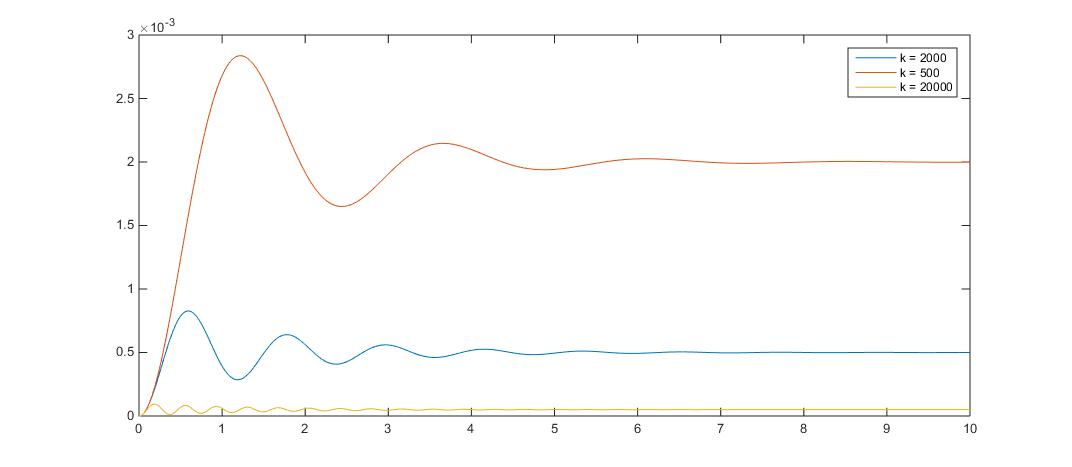
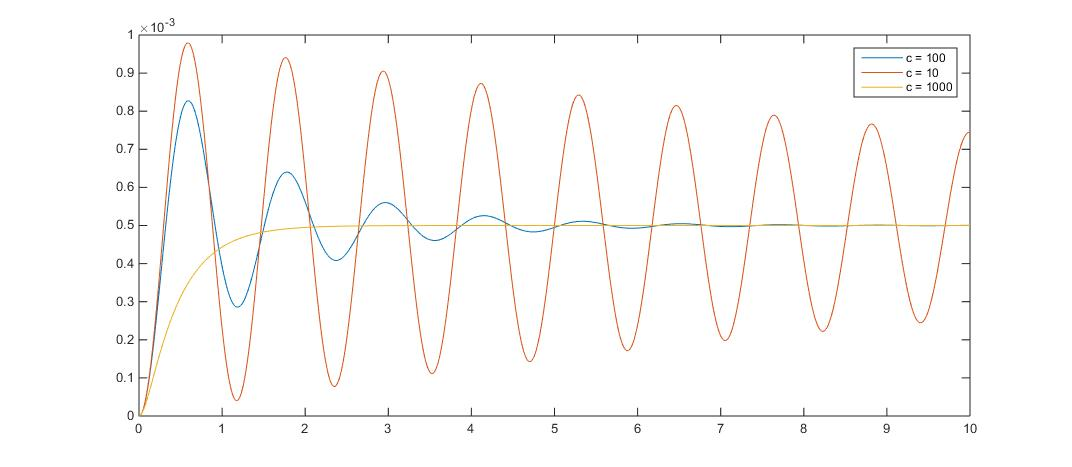
Rätt bild och lite text

diff --git a/FleraStegsvar.m b/FleraStegsvar.m
@@ -7,18 +7,25 @@ k = 2000;
 c = 100;
 m = 70;
 
+w = sqrt(-(c/(2*m))^2 + (k/m));
+a = c/(2*m);
+
 t = linspace(0,10,1000);
 
-y = (1./(sqrt((4.*m.*k-c.*c)./4)).*exp(-c/(2.*m).*t).*sin(sqrt((4.*m.*k-c.*c)./(4.*m.^2)).*t));
+y = 1./(w*m).*(1 - cos(w.*t).*exp(-a.*t) -a./w.*sin(w.*t).*exp(-a.*t))./(w + ((a.^2)./w));
 hFig = figure(1);
 set(hFig, 'Position', [0,0,700,400]);
 
 c = 10;
-u = (1./(sqrt((4.*m.*k-c.*c)./4)).*exp(-c/(2.*m).*t).*sin(sqrt((4.*m.*k-c.*c)./(4.*m.^2)).*t));
+w = sqrt(-(c/(2*m))^2 + (k/m));
+a = c/(2*m);
+u = 1./(w*m).*(1 - cos(w.*t).*exp(-a.*t) - a./w.*sin(w.*t).*exp(-a.*t))./(w + ((a.^2)./w));
 
 
 c = 1000;
-v = (1./(sqrt((4.*m.*k-c.*c)./4)).*exp(-c/(2.*m).*t).*sin(sqrt((4.*m.*k-c.*c)./(4.*m.^2)).*t));
+w = sqrt(-(c/(2*m))^2 + (k/m));
+a = c/(2*m);
+v = 1./(w*m).*(1 - cos(w.*t).*exp(-a.*t) - a./w.*sin(w.*t).*exp(-a.*t))./(w + ((a.^2)./w));
 plot(t,y,t,u,t,v);
 
 

diff --git a/Studsmatta.tex b/Studsmatta.tex
@@ -888,7 +888,7 @@ Med låg dämpning så kommer systemet svänga väldigt länge. Då finns det kn
 \end{center}
 \end{figure}
 
-När man ändrar massan så är det ganska självklart att det nya jämviktsläget ändras. Om någon står på en studsmatta och får ett bowlingklot kastat till sig kommer denne sjunka ned djupare. Här ser vi bara några olika exempel av hur tung personen är innan detta händer. Man kan då se att det beter sig mycket likt impulssvaret med avseende på utseendet, men att de svänger in på olika nya värden.
+Intuitivt kan man tänka sig att massan bör ändras, men det är ju utifrån jämviktsläget
 
 \begin{figure}[h]
 \begin{center}
